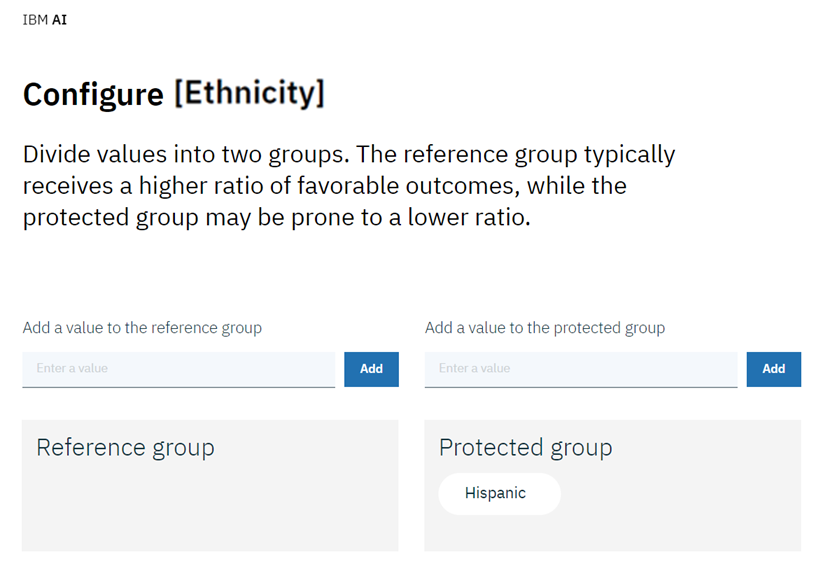
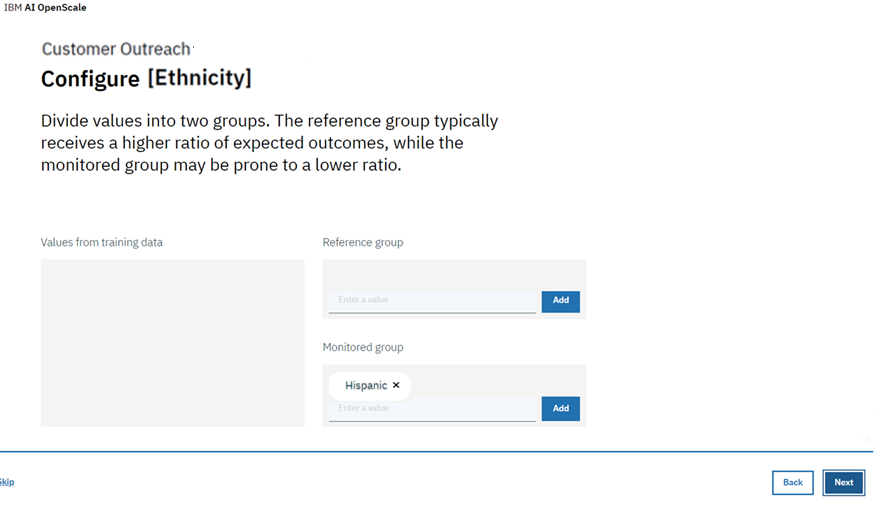
Updates Fairness feature names

diff --git a/monitor-fairness.md b/monitor-fairness.md
@@ -2,7 +2,7 @@
 
 copyright:
   years: 2018
-lastupdated: "2018-10-1"
+lastupdated: "2018-11-12"
 
 ---
 
@@ -32,19 +32,19 @@ Before configuring the Fairness monitor, there a few key concepts that are criti
 
 - *Fairness attributes*: These are the model attributes for which the model is likely to exhibit bias. As an example, for the fairness attribute **`Gender`**, the model could be biased against specific gender values (`Female`, `Transgender`, etc.) Another example of a fairness attribute is **`Age`**, where the model could exhibit bias against people in an age group, like `18 to 25`.
   
-- *Majority / Minority value*: The values of fairness attributes are split into two distinct categories: Majority and Minority. The Minority values are those which are likely to be discriminated against. In the case of a fairness attribute like **`Gender`**, the Minority values could be `Female` and `Transgender`. For a numeric fairness attribute, such as **`Age`**, the Minority values could be `[18-25]`. All other values for a given fairness attribute are then considered as Majority value, for example `Gender=Male` or `Age=[26,100]`.
+- *Reference / Monitored value*: The values of fairness attributes are split into two distinct categories: Reference and Monitored. The Monitored values are those which are likely to be discriminated against. In the case of a fairness attribute like **`Gender`**, the Monitored values could be `Female` and `Transgender`. For a numeric fairness attribute, such as **`Age`**, the Monitored values could be `[18-25]`. All other values for a given fairness attribute are then considered as Reference values, for example `Gender=Male` or `Age=[26,100]`.
   
-- *Favorable / Unfavorable outcome*: The output of the model is categorized as either Favorable or Unfavorable. As an example, if the model is predicting whether a person should get a loan or not, then the Favorable outcome could be `Loan Granted` or `Loan Partially Granted`, whereas the Unfavorable outcome might be `Loan Denied`. Thus, the Favorable outcome is one that is deemed as a positive outcome, while the Unfavourable outcome is deemed as being negative.
+- *Expected / Unexpected outcome*: The output of the model is categorized as either Expected or Unexpected. As an example, if the model is predicting whether a person should get a loan or not, then the Expected outcome could be `Loan Granted` or `Loan Partially Granted`, whereas the Unexpected outcome might be `Loan Denied`. Thus, the Expected outcome is one that is deemed as a positive outcome, while the Unexpected outcome is deemed as being negative.
 
 The {{site.data.keyword.aios_short}} algorithm computes bias on an hourly basis, using the last `N` records present in the payload logging table; the value of `N` is specified when configuring Fairness. The algorithm perturbs these last `N` records to generate additional data.
 
-The perturbation is done by changing the value of the fairness attribute from Majority to Minority, or vice-versa. The perturbed data is then sent to the model to evaluate its behavior. The algorithm looks at the last `N` records in the payload table, and the behavior of the model on the perturbed data, to decide if the model is acting in a biased manner.
+The perturbation is done by changing the value of the fairness attribute from Reference to Monitored, or vice-versa. The perturbed data is then sent to the model to evaluate its behavior. The algorithm looks at the last `N` records in the payload table, and the behavior of the model on the perturbed data, to decide if the model is acting in a biased manner.
 
-A model is deemed to be biased if, across this combined dataset, the percentage of Favorable outcomes for the Minority class is less than the percentage of Favorable outcomes for the Majority class, by some threshold value. This threshold value is to be specified when configuring Fairness.
+A model is deemed to be biased if, across this combined dataset, the percentage of Expected outcomes for the Monitored class is less than the percentage of Expected outcomes for the Reference class, by some threshold value. This threshold value is to be specified when configuring Fairness.
 
 ### Example
 
-Consider a data point where, for `Gender=Male` (Majority value), the model predicts a Favorable outcome, but when the record is perturbed by changing `Gender` to `Female` (Minority value), while keeping all other feature values the same, the model predicts an Unfavorable outcome. A model overall is said to exhibit bias if there are sufficient data points (across the last `N` records in the payload table, plus the perturbed data) where the model was acting in a biased manner.
+Consider a data point where, for `Gender=Male` (Reference value), the model predicts an Expected outcome, but when the record is perturbed by changing `Gender` to `Female` (Monitored value), while keeping all other feature values the same, the model predicts an Unexpected outcome. A model overall is said to exhibit bias if there are sufficient data points (across the last `N` records in the payload table, plus the perturbed data) where the model was acting in a biased manner.
 
 ### Supported models
 
@@ -73,21 +73,21 @@ Consider a data point where, for `Gender=Male` (Majority value), the model predi
 
     Click **Next** to continue.
 
-1.  Each feature has specific requirements to configure. In this example, you define the **`Age`** ranges for a Reference (Majority) Group and a Protected (Minority) Group by manually entering values directly in each group.
+1.  Each feature has specific requirements to configure. In this example, you define the **`Age`** ranges for a Reference Group and a Monitored Group by manually entering values directly in each group.
 
-    In this example, for the **`Age`** fairness attribute, if you feel that your model is likely to be biased against people with ages between 18 and 25, then the Protected Group value will be `[18,25]` and the Reference Group value will be `[26,100]`. In case of the **`Gender`** fairness attribute, the Reference Group value might be `Male`, while the Protected Group values could be `Female` and `Transgender`.
+    In this example, for the **`Age`** fairness attribute, if you feel that your model is likely to be biased against people with ages between 18 and 25, then the Monitored Group value will be `[18-25]` and the Reference Group value will be `[26-100]`. In case of the **`Gender`** fairness attribute, the Reference Group value might be `Male`, while the Monitored Group values could be `Female` and `Transgender`.
 
     ![Configure age settings](images/fair-config-age.png)
 
     Click **Next** to continue
 
-1.  Set the threshhold limit for Fairness, for **`Age`**.
+1.  Set the threshold limit for Fairness, for **`Age`**.
 
-    A Fairness threshhold is used to specify an acceptable difference between the percentage of Favorable outcomes for the Minority group as compared to the percentage of Favorable outcomes for the Majority group.
+    A Fairness threshold is used to specify an acceptable difference between the percentage of Expected outcomes for the Monitored group as compared to the percentage of Expected outcomes for the Reference group.
 
-    Consider a model that predicts who should get a loan (`favorable outcome=loan granted`) and who shouldn’t (`unfavorable outcome=loan denied`). Further, the Minority value for age is `[18,25]`, and the Majority value is `[26,100]`. When the bias detection algorithm runs, if it finds that the percentage of Favorable outcomes for people in the age group `[18,25]` in the last `N` records plus perturbed data is `50%`, while the percentage of Favorable outcomes for people in the age group `[26,100]` is `70%`, then Fairness is computed as 50*100/70 = 71.42.
+    Consider a model that predicts who should get a loan (`expected outcome=loan granted`) and who shouldn’t (`unexpected outcome=loan denied`). Further, the Monitored value for age is `[18,25]`, and the Reference value is `[26,100]`. When the bias detection algorithm runs, if it finds that the percentage of Expected outcomes for people in the age group `[18,25]` in the last `N` records plus perturbed data is `50%`, while the percentage of Expected outcomes for people in the age group `[26,100]` is `70%`, then Fairness is computed as 50*100/70 = 71.42.
 
-    If the Fairness threshold is set to 80%, then the algorithm will flag the model as being biased, because the computed Fairness is lower than the threshhold. However, if the threshold is set to 70% then it will not report the model as being biased.
+    If the Fairness threshold is set to 80%, then the algorithm will flag the model as being biased, because the computed Fairness is lower than the threshold. However, if the threshold is set to 70% then it will not report the model as being biased.
 
     ![Configure age settings](images/fair-config-age-limit.png)
 
@@ -103,11 +103,11 @@ Consider a data point where, for `Gender=Male` (Majority value), the model predi
 
      Click **Next** when you are done with each feature.
 
-1.  Now, specify values that represent a favorable outcome for the model. Values are derived from the `label` column in the training data, if the model output schema contains a mapping column. In WML, the `prediction` column always has a double value. The mapping column is used to specify the mapping of this `prediction` value to the class label.
+1.  Now, specify values that represent an expected outcome for the model. Values are derived from the `label` column in the training data, if the model output schema contains a mapping column. In WML, the `prediction` column always has a double value. The mapping column is used to specify the mapping of this `prediction` value to the class label.
 
-    For example, if the `prediction` value is `1.0`, the mapping column could have a value of `Loan denied`; this implies that the prediction of the model is `Loan denied`. So, if the model output schema contains a mapping column, then specify Favorable and Unfavorable values using those present in the mapping column.
+    For example, if the `prediction` value is `1.0`, the mapping column could have a value of `Loan denied`; this implies that the prediction of the model is `Loan denied`. So, if the model output schema contains a mapping column, then specify Expected and Unexpected values using those present in the mapping column.
 
-    If, however, the mapping column is not present in the model output schema, then the Favorable and Unfavorable values need to be specified using the value of the `prediction` column (`0.0`, `1.0`, etc.)
+    If, however, the mapping column is not present in the model output schema, then the Expected and Unexpected values need to be specified using the value of the `prediction` column (`0.0`, `1.0`, etc.)
 
      ![Configure outcome](images/fair-config-outcome.png)
 

diff --git a/insight-timechart.md b/insight-timechart.md
@@ -2,7 +2,7 @@
 
 copyright:
   years: 2018
-lastupdated: "2018-10-21"
+lastupdated: "2018-11-12"
 
 ---
 
@@ -30,7 +30,7 @@ Move the marker across the chart to see statistics for an individual hour. In th
 
   ![Time series chart detail](images/insight-time-detail.png)
 
-- ***Fairness***: Two of three Fairness features, Car Value and Area Code, met their set thresholds for approval. The third Fairness feature, Policy Age, was flagged for bias. You can also see the number of favorable outcomes (in this case percentages Approved vs. Denied) for an individual population in the features monitored for fairness.
+- ***Fairness***: Two of three Fairness features, Car Value and Area Code, met their set thresholds for approval. The third Fairness feature, Policy Age, was flagged for bias. You can also see the number of expected outcomes (in this case percentages Approved vs. Denied) for an individual population in the features monitored for fairness.
 - ***Accuracy***: The Accuracy metric averaged 78%.
 - ***Avg. Reqs/Min***: On average, 300 records were processed per minute between 1:00 and 2:00 PM CST. The throughput is computed every minute, and its average value over the course of the hour is reported in the chart.
 
@@ -45,15 +45,15 @@ Clicking the chart opens a visualization of the data points for a monitored feat
 
 Note the three filters at the top of the page (Feature, Date, and Hour) that let you select a different feature or time to review details. This chart is showing multiple things:
 
-- You can observe the population experiencing bias (policies that are less than 2 months old). The chart also shows the percentage of favorable outcome (50%) for this population.
+- You can observe the population experiencing bias (policies that are less than 2 months old). The chart also shows the percentage of expected outcome (50%) for this population.
 
-- The chart shows the percentage of favorable outcome (90%) for the majority population. This is the average of favorable outcome across all majority populations.
+- The chart shows the percentage of expected outcome (90%) for the reference population. This is the average of expected outcome across all reference populations.
 
-- The chart is indicating the presence of bias, because the ratio of percentage of favorable outcomes for populations with policies less than 2 months old to the percentage of favorable outcomes for the majority population is below the threshold. In other words, 0.5/0.9 = 0.55, which is less than the 0.8 threshold.
+- The chart is indicating the presence of bias, because the ratio of percentage of expected outcomes for populations with policies less than 2 months old to the percentage of expected outcomes for the reference population is below the threshold. In other words, 0.5/0.9 = 0.55, which is less than the 0.8 threshold.
 
-- The chart also shows the distribution of the majority and minority values for each distinct value of the attribute in the data from the payload table which was analyzed to identify bias. In other words, if the bias detection algorithm analyzed the last 1790 records from the payload table, then 120 of those records had policy age less than 2 months, and out of that distribution the `Not fraud` and `Fraud` outcomes are represented by the bar chart. The distribution of the payload data is shown for each distinct value of the fairness attribute (even majority values are shown). This information can be used to correlate the bias with the amount of data received by the model.
+- The chart also shows the distribution of the reference and mmoitored values for each distinct value of the attribute in the data from the payload table which was analyzed to identify bias. In other words, if the bias detection algorithm analyzed the last 1790 records from the payload table, then 120 of those records had policy age less than 2 months, and out of that distribution the `Not fraud` and `Fraud` outcomes are represented by the bar chart. The distribution of the payload data is shown for each distinct value of the fairness attribute (even reference values are shown). This information can be used to correlate the bias with the amount of data received by the model.
 
-- The chart additionally shows that the population with a policy age between 5-10 years received 100% favorable outcomes. This signifies the source of the bias, which means that data in this group skewed the results, and led to an increase in the percentage of favorable outcomes for the majority class. This information can be used to identify parts of the data which can then be under-sampled when retraining the model.
+- The chart additionally shows that the population with a policy age between 5-10 years received 100% expected outcomes. This signifies the source of the bias, which means that data in this group skewed the results, and led to an increase in the percentage of expected outcomes for the reference class. This information can be used to identify parts of the data which can then be under-sampled when retraining the model.
 
 - Another important thing that the chart shows is the name of the table containing the data which has been identified for manual labelling. Whenever the algorithm detects bias in a model, it also identifies the data points which can be sent for manual labelling by humans. This manually-labelled data can then be used along with the original training data to retrain the model. This retrained model is likely to not have the bias. The manual labelling table is present in the PostgreSQL database associated with the {{site.data.keyword.aios_short}} instance.
 

diff --git a/getting-started.md b/getting-started.md
@@ -10,7 +10,7 @@ takeaways:
 
 copyright:
   years: 2018
-lastupdated: "2018-11-07"
+lastupdated: "2018-11-12"
 
 ---
 
@@ -249,23 +249,23 @@ Now that the machine learning model has been deployed, you can configure {{site.
 
 - You may now choose which features to monitor for Fairness. In this example, we'll monitor the **AGE** and **SEX** features. Click on the **AGE** and **SEX** tiles, and click **Next**.
 
-- {{site.data.keyword.aios_short}} works to detect bias against a protected group in comparison to a reference group. For the current **AGE** example, add the values "49-59" and "60-75" to the **Reference group**, and the values "0-48" and "76-99" to the **Protected group**, and click **Next**:
+- {{site.data.keyword.aios_short}} works to detect bias against a monitored group in comparison to a reference group. For the current **AGE** example, add the values "49-59" and "60-75" to the **Reference group**, and the values "0-48" and "76-99" to the **Monitored group**, and click **Next**:
 
   ![Age Groups](images/age_groups1.png)
 
-  The model will be flagged as biased if the drug prediction ratios for the protected group age ranges differ from the ratios for the reference group age ranges. For example, if the model finds that drug A was predicted 30% of the time for patients aged 49-59, but was predicted only 5% of the time for patients aged 76-99, it is biased against the protected group.
+  The model will be flagged as biased if the drug prediction ratios for the nonitored group age ranges differ from the ratios for the reference group age ranges. For example, if the model finds that drug A was predicted 30% of the time for patients aged 49-59, but was predicted only 5% of the time for patients aged 76-99, it is biased against the monitored group.
 
 - You may now assign a fairness threshold for **AGE**. You will see an alert on your operations dashboard if the Fairness rating falls below this threshold. Click **Next** to leave it set at the default of 80%.
 
-- For the **SEX** feature, add the value "M" (male) to the **Reference group**, and the value "F" (female) to the **Protected group**, and click **Next**:
+- For the **SEX** feature, add the value "M" (male) to the **Reference group**, and the value "F" (female) to the **Monitored group**, and click **Next**:
 
   ![Gender Groups](images/gender_groups1.png)
 
-  As with **AGE**, the model will be flagged as biased for **SEX** if the drug prediction ratios for the protected group differ from the ratios for the reference group. So if the model predicts drug X for male patients 60% of the time, and for female patients 20% of the time, it is biased.
+  As with **AGE**, the model will be flagged as biased for **SEX** if the drug prediction ratios for the monitored group differ from the ratios for the reference group. So if the model predicts drug X for male patients 60% of the time, and for female patients 20% of the time, it is biased.
 
 - Click **Next** to leave the threshold for **SEX** at the default of 80%.
 
-- You will now select favorable and unfavorable prediction values from the payload logging (PostgreSQL) database. {{site.data.keyword.aios_short}} will automatically detect which column in the payload logging data contains the prediction values;  those values are 0-4 (each number corresponding to one of five drugs the model predicts). Add these values to the form and click **Next**:
+- You will now select expected and unexpected prediction values from the payload logging (PostgreSQL) database. {{site.data.keyword.aios_short}} will automatically detect which column in the payload logging data contains the prediction values; those values are 0-4 (each number corresponding to one of five drugs the model predicts). Add these values to the form and click **Next**:
 
   ![Positive and negative values](images/pos_and_neg1.png)
 

diff --git a/tutorial-adv.md b/tutorial-adv.md
@@ -10,7 +10,7 @@ takeaways:
 
 copyright:
   years: 2018
-lastupdated: "2018-10-29"
+lastupdated: "2018-11-12"
 
 ---
 
@@ -264,15 +264,15 @@ Now that the machine learning model has been deployed, you can configure {{site.
 
 - You may now choose which features to monitor. In this example, we'll monitor the **Gender** feature for bias. Click on the **Gender** tile and click **Next**.
 
-- {{site.data.keyword.aios_short}} works to detect bias against a protected group in comparison to a reference group. For this example, add the value "Male" to the **Reference group**, and the value "Female" to the **Protected group**, and click **Next**:
+- {{site.data.keyword.aios_short}} works to detect bias against a monitored group in comparison to a reference group. For this example, add the value "Male" to the **Reference group**, and the value "Female" to the **Monitored group**, and click **Next**:
 
-  ![Gender Groups](images/gender_groups.png)
+  ![Gender Groups](images/gender_groups1.png)
   
-  The model will be flagged as biased if the Action ratios for the protected group ranges differ from the ratios for the reference group ranges. For example, if the model finds that 60% of the time a voucher was recommended for male customers, but was only recommended 20% of the time for female customers, it is biased against the protected group.
+  The model will be flagged as biased if the Action ratios for the monitored group ranges differ from the ratios for the reference group ranges. For example, if the model finds that 60% of the time a voucher was recommended for male customers, but was only recommended 20% of the time for female customers, it is biased against the monitored group.
   
 - You may now assign a fairness threshold. You will see an alert on your operations dashboard if the fairness rating falls below this threshold. Click **Next** to leave it set at the default of 80%.
 
-- You will now select favorable and unfavorable prediction values from the payload logging database. {{site.data.keyword.aios_short}} has automatically detected which column in the payload logging data contains the prediction values; those values are 0 (for no customer service action taken) or 1 - 3 (corresponding to voucher, free upgrade or on-demand pickup). Add these values to the form and click **Next**:
+- You will now select Expected and Unexpected prediction values from the payload logging database. {{site.data.keyword.aios_short}} has automatically detected which column in the payload logging data contains the prediction values; those values are 0 (for no customer service action taken) or 1 - 3 (corresponding to voucher, free upgrade or on-demand pickup). Add these values to the form and click **Next**:
 
   ![Positive and negative values](images/pos_and_neg.png)
   
